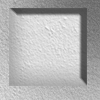
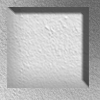
gui buildings levels

diff --git a/src/main/resources/css/board_scene.css b/src/main/resources/css/board_scene.css
@@ -26,7 +26,7 @@
 }
 
 .spacePane.lvlOne.lvlTwo {
-    -fx-background-image: url("../images/secondfloor.png");
+    -fx-background-image: url("../images/thirdfloor.png");
 }
 
 .spacePane.lvlOne.lvlTwo.lvlThree {

diff --git a/src/main/java/it/polimi/ingsw/view/gui/JavaFXGui.java b/src/main/java/it/polimi/ingsw/view/gui/JavaFXGui.java
@@ -36,8 +36,8 @@ public class JavaFXGui extends Application {
         // Show the scene containing the root layout.
         Scene scene = new Scene(rootLayout);
         stage.setScene(scene);
-        stage.setWidth(1310d);
-        stage.setHeight(800d);
+        stage.setWidth(1260d);
+        stage.setHeight(750d);
         stage.setResizable(false);
         //stage.setMaximized(true);
         //stage.setFullScreen(true);
